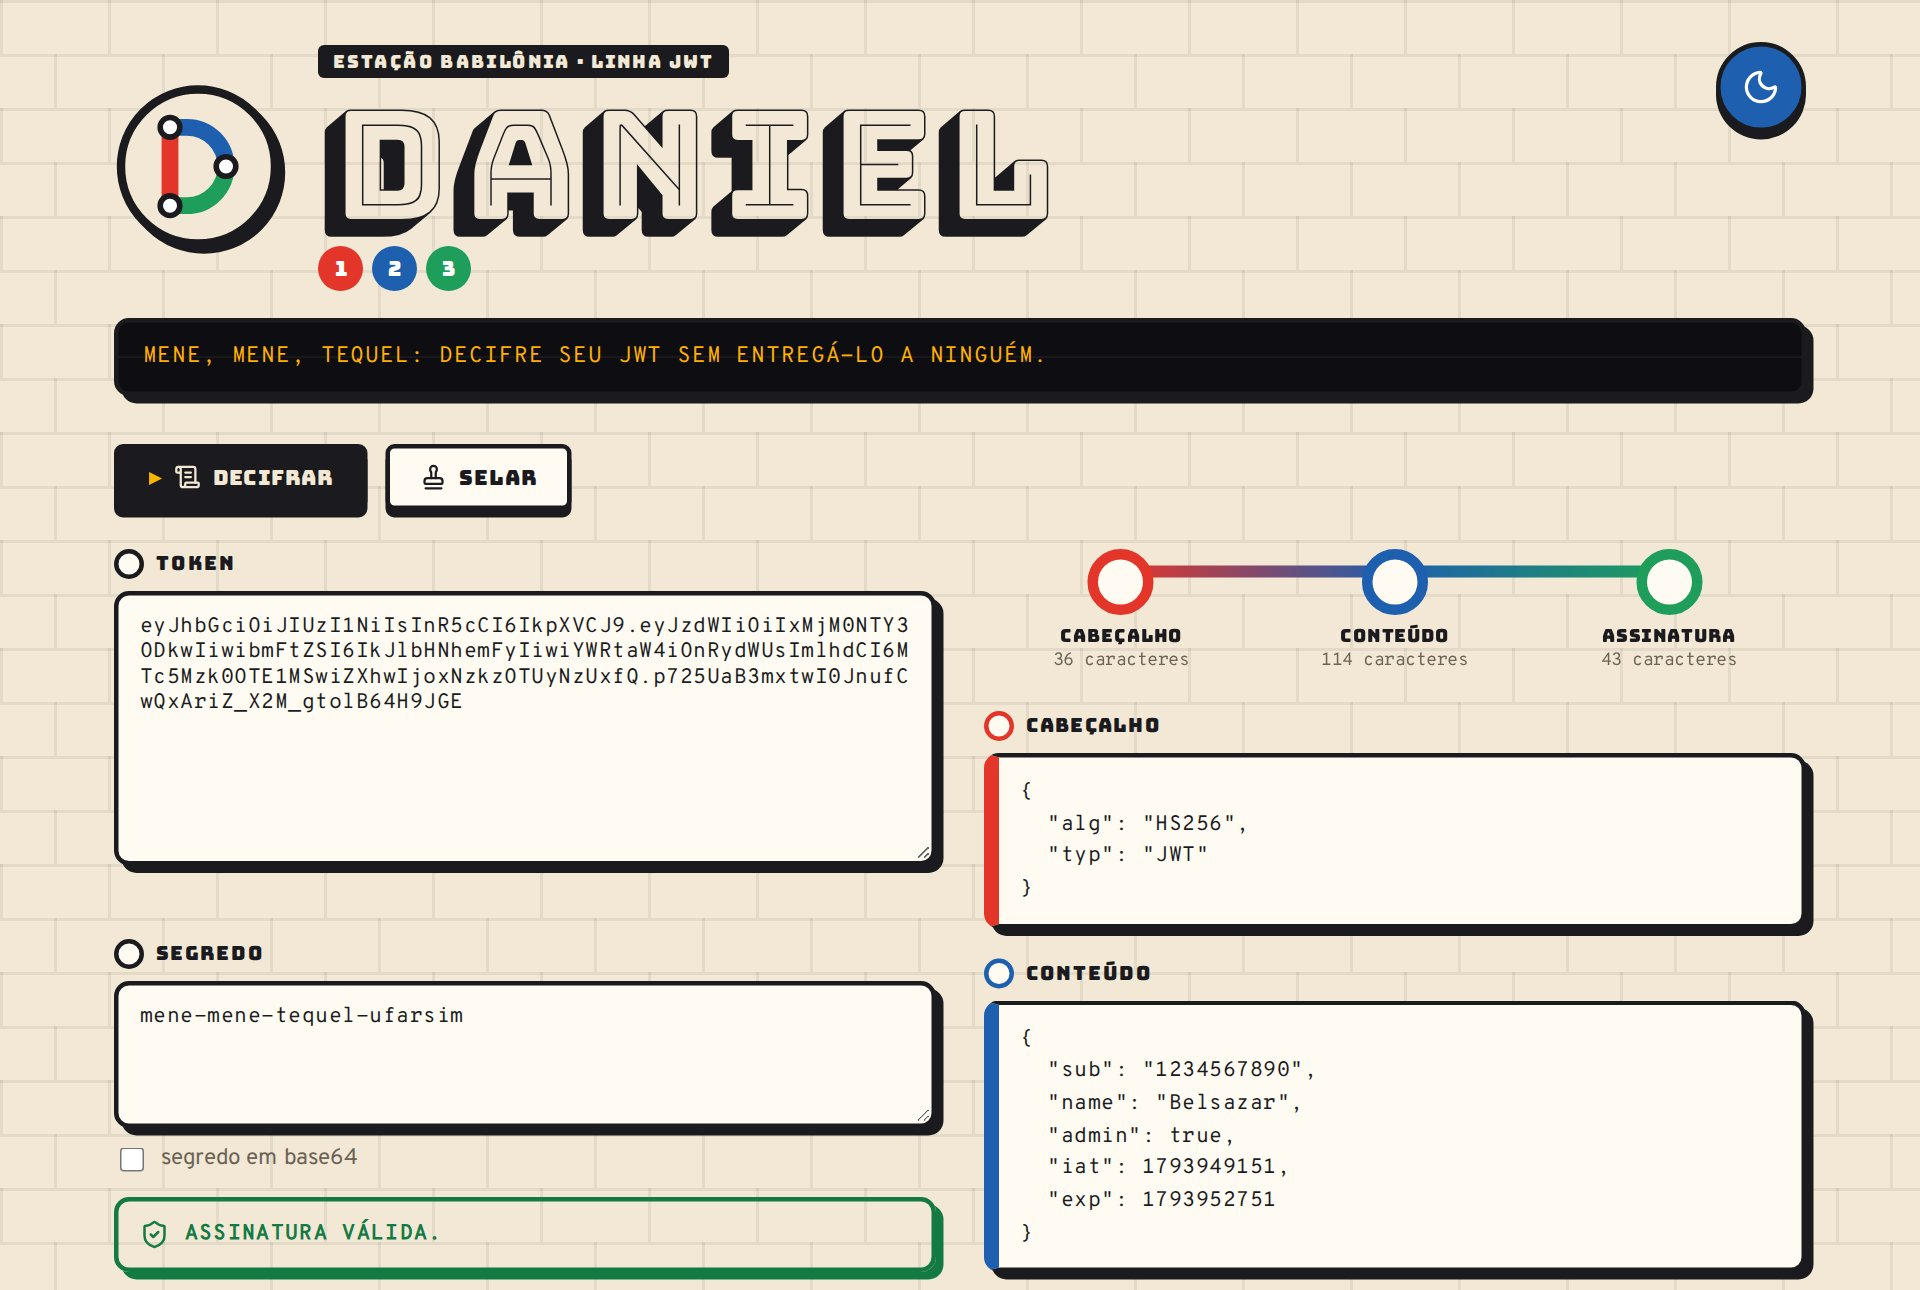
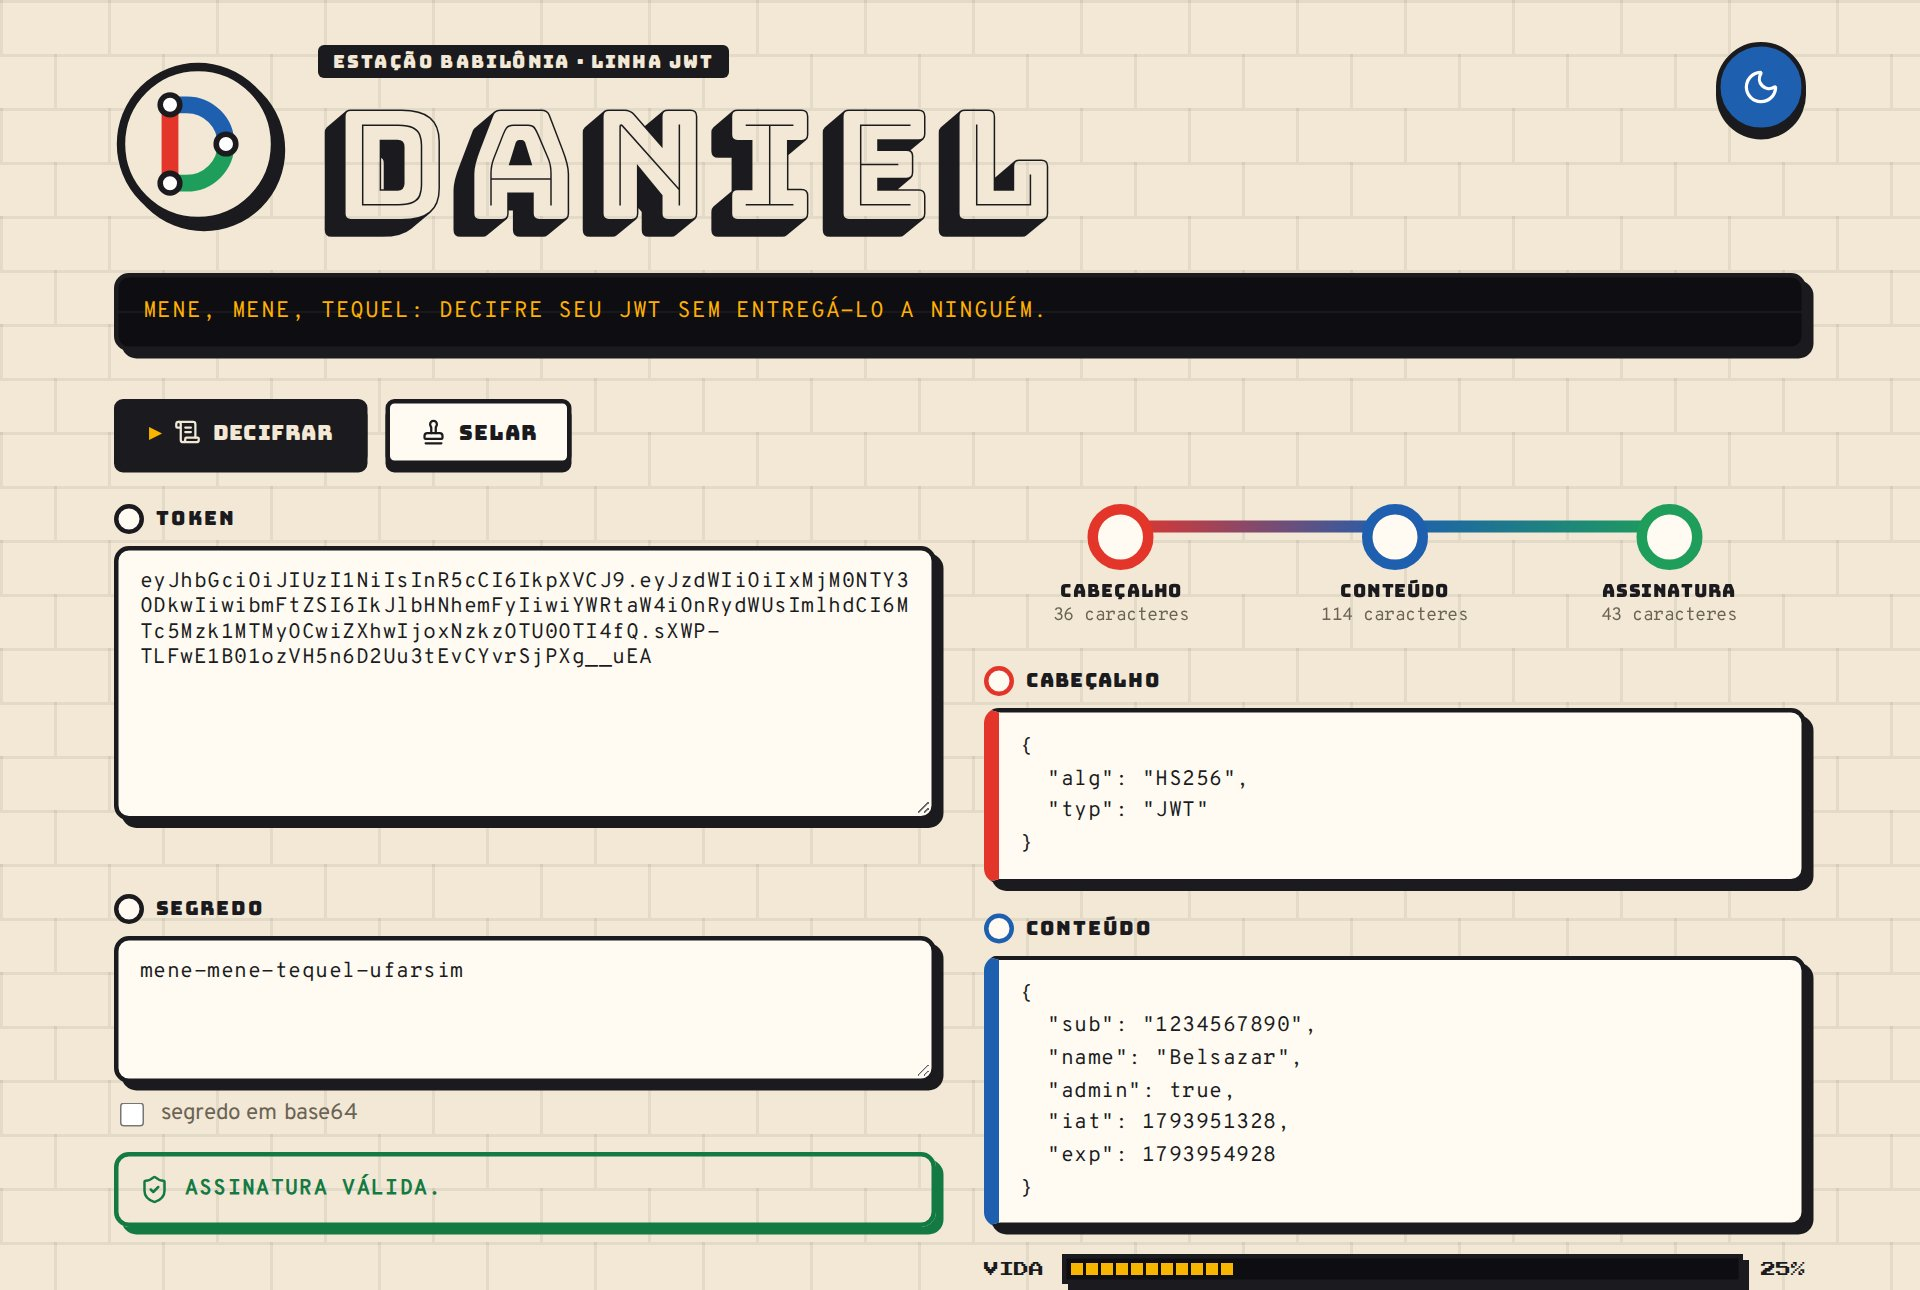
style: remove as bolinhas 1, 2, 3 do cabeçalho

Changed region(s): [[0.0625, 0.3721, 0.9688, 1.0], [0.0625, 0.031, 0.9688, 0.5581]]

diff --git a/index.html b/index.html
@@ -32,7 +32,6 @@
     <div class="title">
       <p class="kicker">Estação Babilônia · Linha JWT</p>
       <h1 class="sign">DANIEL</h1>
-      <p class="lines" aria-hidden="true"><span class="bullet part-0">1</span><span class="bullet part-1">2</span><span class="bullet part-2">3</span></p>
     </div>
     <button id="theme" class="theme" type="button"></button>
     <p id="motto" class="board">Mene, Mene, Tequel: decifre seu JWT sem entregá-lo a ninguém.</p>

diff --git a/src/ui/style.css b/src/ui/style.css
@@ -171,21 +171,6 @@ output {
   font: 400 clamp(46px, 11vw, 100px) / 1 var(--shade);
   letter-spacing: 0.02em;
 }
-.lines {
-  display: flex;
-  gap: 6px;
-  margin: 0;
-}
-.bullet {
-  display: grid;
-  place-items: center;
-  width: 30px;
-  height: 30px;
-  border-radius: 50%;
-  background: var(--c);
-  color: #fff;
-  font: 400 14px var(--display);
-}
 
 /* painel de partidas: plaquinhas que giram (fx/text.ts) */
 .board {
